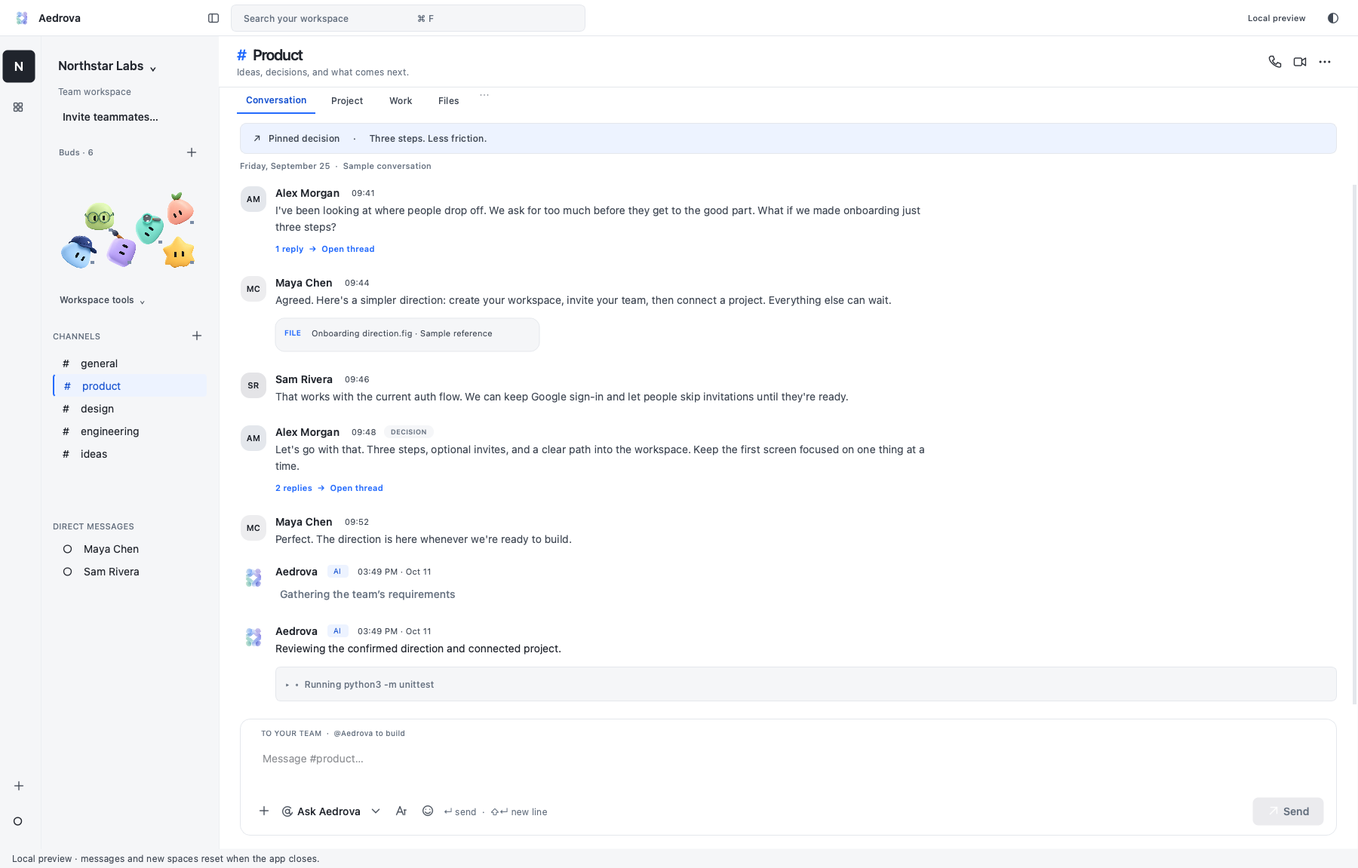
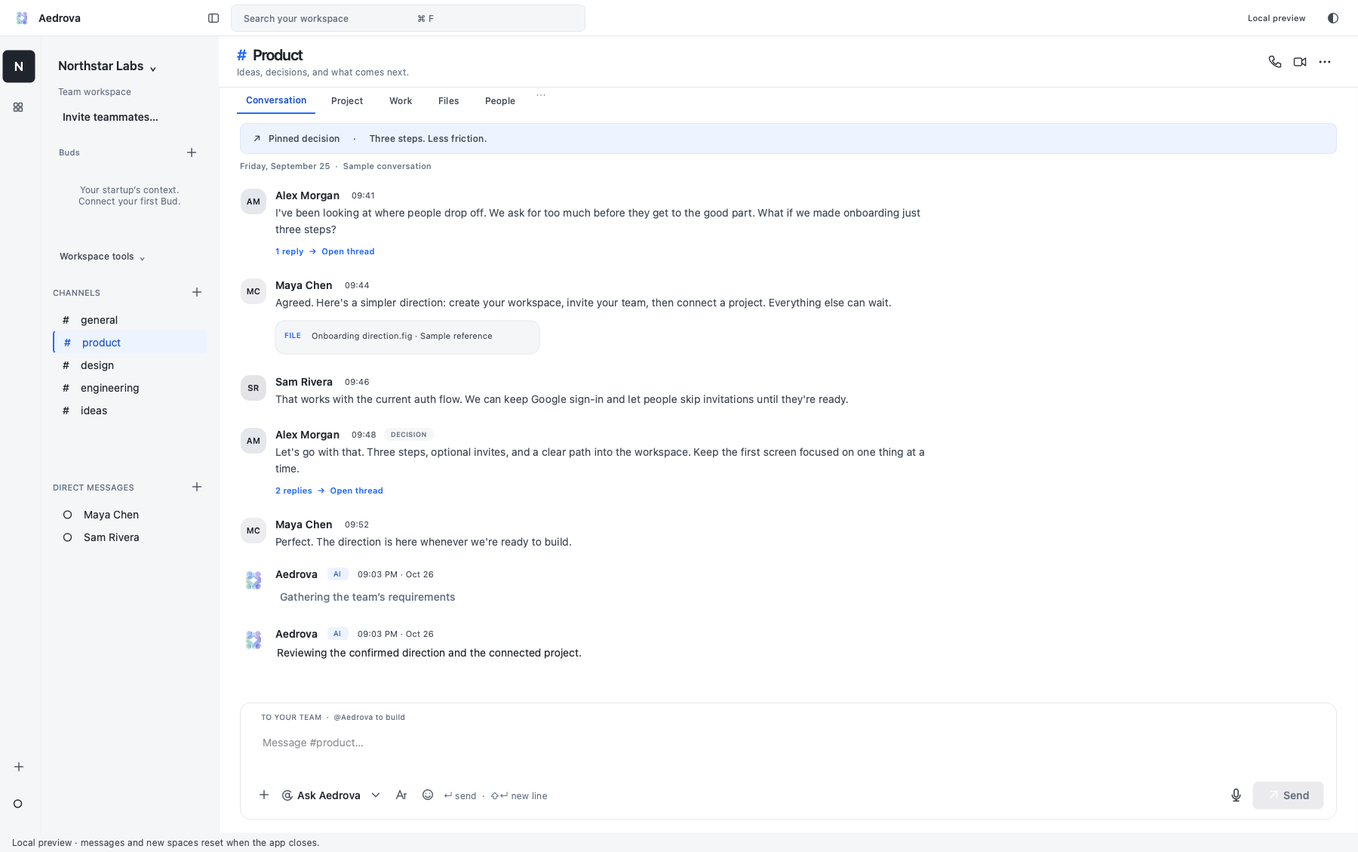
Refresh current product screenshots and introduce the Aedrova team

diff --git a/aedrova_site/templates/home.html b/aedrova_site/templates/home.html
@@ -20,7 +20,7 @@
 </section>
 
 <section class="statement reveal" id="how-it-works"><div class="section-label"><span>01 / FROM CONVERSATION TO CREATION</span><span>Aedrova, in three moments</span></div><h2>You’ve talked it through.<br><em>Now bring it to life.</em></h2><p>The idea. The decisions. The detail someone mentioned last Tuesday.<br>Your agent searches across your accessible chatspace to connect the dots before it builds.</p><div class="journey"><div><b>01</b><h3>Organize your team.</h3><p>Bring teams, channels and project discussions into a focused workspace.</p></div><div><b>02</b><h3>Give it direction.</h3><p>Agree on what’s next. Name your agent and connect your project.</p></div><div><b>03</b><h3>Make something real.</h3><p>Mention your agent. It plans, codes and tests with your saved permissions.</p></div></div></section>
-<section class="product-section reveal"><div class="product-intro"><span class="eyebrow">TEAM COMMUNICATION, CONNECTED TO DELIVERY.</span><h2>Your team’s workspace.<br><em>With the power to build.</em></h2><p>Your team already knows the story. Your agent should too.<br>Shared conversations, project briefs and agreed decisions become its starting point.</p></div><figure class="desktop-capture bud-anchor"><span class="bud-peek workspace-bud" aria-hidden="true"><span class="site-bud look-product"></span></span><img data-capture-theme="dark" src="/static/workspace-dark.png?v=20261011" alt="Actual Aedrova desktop: Workspace channels and team conversation" loading="lazy" width="1800" height="1151"><figcaption>Actual Aedrova desktop · Local demonstration workspace</figcaption></figure>
+<section class="product-section reveal"><div class="product-intro"><span class="eyebrow">TEAM COMMUNICATION, CONNECTED TO DELIVERY.</span><h2>Your team’s workspace.<br><em>With the power to build.</em></h2><p>Your team already knows the story. Your agent should too.<br>Shared conversations, project briefs and agreed decisions become its starting point.</p></div><figure class="desktop-capture bud-anchor"><span class="bud-peek workspace-bud" aria-hidden="true"><span class="site-bud look-product"></span></span><picture><img class="meeting-image-light" src="/static/workspace-light.png?v=20261026" alt="Actual Aedrova desktop: Workspace channels and team conversation" loading="lazy" width="1800" height="1129"><img class="meeting-image-dark" src="/static/workspace-dark.png?v=20261026" alt="Actual Aedrova desktop: Workspace channels and team conversation" loading="lazy" width="1800" height="1129"></picture><figcaption>Actual Aedrova desktop · Local demonstration workspace</figcaption></figure>
 <div class="integration-strip"><span>Keep the tools you love.</span><strong>Codex</strong><strong>Claude Code</strong><strong>GitHub</strong><strong>VS Code</strong><strong>Cursor</strong></div></section>
 <section class="buds-section reveal" id="ai-teammates" aria-labelledby="buds-heading">
 <div class="buds-heading"><span class="eyebrow">MEET YOUR BUDS · DESKTOP PREVIEW</span><h2 id="buds-heading">Small teammates.<br><em>Real potential.</em></h2><p>Give each Bud a name, a specialty and a little personality.<br>They live beside your team, ready when you mention them.</p></div>
@@ -28,27 +28,28 @@
 <p class="buds-availability">Buds are implemented in the desktop preview. Connector availability depends on provider setup and authorization; some integrations still require production approval. Public access remains waitlist-only.</p>
 </section>
 <section class="features" id="features"><div class="section-label"><span>02 / THE WORKSPACE</span><span>Everything has its place</span></div>
-<article class="feature-story reveal"><div class="story-copy"><span class="eyebrow">THE TEAM’S HOME BASE</span><h2>Keep teams aligned.<br><em>Keep discussions focused.</em></h2><p>Private workspaces and channels. Focused threads. Direct messages, shared files and easy invitations. One place for the people behind the product.</p><span class="feature-note">Channels · Threads · DMs · Files · Invitations · Roles</span></div><figure class="bud-anchor story-capture"><span class="bud-peek thread-bud" aria-hidden="true"><span class="site-bud look-marketing"></span></span><img data-capture-theme="light" src="/static/thread-light.png?v=20261011" alt="Actual Aedrova desktop: Focused discussion in the thread panel" loading="lazy" width="1800" height="1151"><figcaption>Actual desktop UI · Local demonstration workspace</figcaption></figure></article>
-<article class="feature-story reverse reveal"><div class="story-copy"><span class="eyebrow">SAME TEAM. SAME CONTEXT.</span><h2>It starts with<br><em>what your team knows.</em></h2><p>The brief is more than your last message. When you ask Aedrova to build, it searches your accessible channels, threads and conversations, brings in supported text files and project briefs, and follows the decisions your team has confirmed. Less re-explaining. More building from the same understanding.</p><span class="feature-note">Chats &amp; threads · Supported text files · Project briefs · Confirmed decisions</span></div><figure class="bud-anchor story-capture"><span class="bud-peek files-bud" aria-hidden="true"><span class="site-bud look-designer"></span></span><img data-capture-theme="light" src="/static/files-light.png?v=20261011" alt="Actual Aedrova desktop: Shared sample product briefs and design references" loading="lazy" width="1800" height="1151"><figcaption>Actual desktop UI · Local demonstration workspace</figcaption></figure></article>
-<article class="feature-story reveal"><div class="story-copy"><span class="eyebrow">YOUR NEW TEAMMATE</span><h2>Meet Aedrova.<br><em>Or make it your own.</em></h2><p>A named coding agent, powered by Codex or Claude Code. It plans and executes in the background using your project permissions. Give it a task. Keep the conversation going.</p><span class="feature-note">Agent nicknames · Automatic planning · Live activity · Stop controls</span></div><figure class="story-capture"><img data-capture-theme="dark" src="/static/activity-dark.png?v=20261011" alt="Actual Aedrova desktop: In-chat coding agent activity demonstration" loading="lazy" width="1800" height="1151"><figcaption>Actual desktop UI · Demonstration activity, not a live provider run</figcaption></figure></article>
-<article class="feature-story reverse reveal"><div class="story-copy"><span class="eyebrow">REAL WORK, IN YOUR REAL PROJECT</span><h2>The conversation ends.<br><em>The code begins.</em></h2><p>Connect your local project and IDE. Your agent builds in a separate copy, runs tests and shows its work. Review the diff, apply the changes and approve delivery to GitHub.</p><span class="feature-note">Local IDE · Tests · Diffs · Approved branch &amp; draft PR · Static preview</span></div><figure class="bud-anchor story-capture"><span class="bud-peek project-bud" aria-hidden="true"><span class="site-bud look-builder"></span></span><img data-capture-theme="dark" src="/static/projects-dark.png?v=20261011" alt="Actual Aedrova desktop: Projects tab with a sample project brief" loading="lazy" width="1800" height="1151"><figcaption>Actual desktop UI · Projects tab with a sample brief</figcaption></figure></article>
+<article class="feature-story reveal"><div class="story-copy"><span class="eyebrow">THE TEAM’S HOME BASE</span><h2>Keep teams aligned.<br><em>Keep discussions focused.</em></h2><p>Private workspaces and channels. Focused threads. Direct messages, shared files and easy invitations. One place for the people behind the product.</p><span class="feature-note">Channels · Threads · DMs · Files · Invitations · Roles</span></div><figure class="bud-anchor story-capture"><span class="bud-peek thread-bud" aria-hidden="true"><span class="site-bud look-marketing"></span></span><picture><img class="meeting-image-light" src="/static/thread-light.png?v=20261026" alt="Actual Aedrova desktop: Focused discussion in the thread panel" loading="lazy" width="1800" height="1129"><img class="meeting-image-dark" src="/static/thread-dark.png?v=20261026" alt="Actual Aedrova desktop: Focused discussion in the thread panel" loading="lazy" width="1800" height="1129"></picture><figcaption>Actual desktop UI · Local demonstration workspace</figcaption></figure></article>
+<article class="feature-story reverse reveal"><div class="story-copy"><span class="eyebrow">SAME TEAM. SAME CONTEXT.</span><h2>It starts with<br><em>what your team knows.</em></h2><p>The brief is more than your last message. When you ask Aedrova to build, it searches your accessible channels, threads and conversations, brings in supported text files and project briefs, and follows the decisions your team has confirmed. Less re-explaining. More building from the same understanding.</p><span class="feature-note">Chats &amp; threads · Supported text files · Project briefs · Confirmed decisions</span></div><figure class="bud-anchor story-capture"><span class="bud-peek files-bud" aria-hidden="true"><span class="site-bud look-designer"></span></span><picture><img class="meeting-image-light" src="/static/files-light.png?v=20261026" alt="Actual Aedrova desktop: Shared sample product briefs and design references" loading="lazy" width="1800" height="1129"><img class="meeting-image-dark" src="/static/files-dark.png?v=20261026" alt="Actual Aedrova desktop: Shared sample product briefs and design references" loading="lazy" width="1800" height="1129"></picture><figcaption>Actual desktop UI · Local demonstration workspace</figcaption></figure></article>
+<article class="feature-story reveal"><div class="story-copy"><span class="eyebrow">YOUR NEW TEAMMATE</span><h2>Meet Aedrova.<br><em>Or make it your own.</em></h2><p>A named coding agent, powered by Codex or Claude Code. It plans and executes in the background using your project permissions. Give it a task. Keep the conversation going.</p><span class="feature-note">Agent nicknames · Automatic planning · Live activity · Stop controls</span></div><figure class="story-capture"><picture><img class="meeting-image-light" src="/static/activity-light.png?v=20261026" alt="Actual Aedrova desktop: In-chat coding agent activity demonstration" loading="lazy" width="1800" height="1129"><img class="meeting-image-dark" src="/static/activity-dark.png?v=20261026" alt="Actual Aedrova desktop: In-chat coding agent activity demonstration" loading="lazy" width="1800" height="1129"></picture><figcaption>Actual desktop UI · Demonstration activity, not a live provider run</figcaption></figure></article>
+<article class="feature-story reverse reveal"><div class="story-copy"><span class="eyebrow">REAL WORK, IN YOUR REAL PROJECT</span><h2>The conversation ends.<br><em>The code begins.</em></h2><p>Connect your local project and IDE. Your agent builds in a separate copy, runs tests and shows its work. Review the diff, apply the changes and approve delivery to GitHub.</p><span class="feature-note">Local IDE · Tests · Diffs · Approved branch &amp; draft PR · Static preview</span></div><figure class="bud-anchor story-capture"><span class="bud-peek project-bud" aria-hidden="true"><span class="site-bud look-builder"></span></span><picture><img class="meeting-image-light" src="/static/projects-light.png?v=20261026" alt="Actual Aedrova desktop: Projects tab with a sample project brief" loading="lazy" width="1800" height="1129"><img class="meeting-image-dark" src="/static/projects-dark.png?v=20261026" alt="Actual Aedrova desktop: Projects tab with a sample project brief" loading="lazy" width="1800" height="1129"></picture><figcaption>Actual desktop UI · Projects tab with a sample brief</figcaption></figure></article>
 <div class="principles reveal"><article><span>01 / YOUR SPACE, YOUR SAY</span><h3>Control stays with you.</h3><p>Google sign-in, workspace roles and channel access. Review before applying changes. Publishing to GitHub takes a separate approval.</p></article><article><span>02 / KEEP THE THREAD</span><h3>Pick up where you left off.</h3><p>A durable build queue, run history and usage visibility. Saved work stays available. Choose what to resume after a restart.</p></article></div>
 </section>
 <section class="meeting-section reveal" id="meetings" aria-labelledby="meeting-heading">
 <div class="meeting-copy"><span class="eyebrow">MEETINGS / PART OF YOUR WORKSPACE</span><h2 id="meeting-heading">Talk it through.<br><em>Keep the understanding.</em></h2><p>Start a meeting from a channel. Bring your team together with audio, video and screen sharing, then return to the conversation without leaving Aedrova.</p><p>A join card brings public meetings into #general or your team’s chosen channel. See who’s there through participant photos and a live count. Private meetings stay in their own channel.</p><span class="coming">Implemented in the desktop preview · Public rollout pending</span></div>
-<figure class="bud-anchor story-capture meeting-overview"><span class="bud-peek meeting-bud" aria-hidden="true"><span class="site-bud look-finance"></span></span><picture><img class="meeting-image-light" src="/static/meetings-light.png?v=20261011" alt="Actual light-theme Aedrova meeting settings with Start meeting and Check meeting devices" loading="lazy" width="1060" height="830"><img class="meeting-image-dark" src="/static/meetings-dark.png?v=20261011" alt="Actual dark-theme Aedrova meeting settings with Start meeting and Check meeting devices" loading="lazy" width="1060" height="830"></picture><figcaption>Actual Mac app · Local preview · No staged call or simulated participants</figcaption></figure>
+<figure class="bud-anchor story-capture meeting-overview"><span class="bud-peek meeting-bud" aria-hidden="true"><span class="site-bud look-finance"></span></span><picture><img class="meeting-image-light" src="/static/meetings-light.png?v=20261026" alt="Actual light-theme Aedrova meeting settings with Start meeting and Check meeting devices" loading="lazy" width="1060" height="830"><img class="meeting-image-dark" src="/static/meetings-dark.png?v=20261026" alt="Actual dark-theme Aedrova meeting settings with Start meeting and Check meeting devices" loading="lazy" width="1060" height="830"></picture><figcaption>Actual Mac app · Local preview · No staged call or simulated participants</figcaption></figure>
 </section>
 <section class="meeting-details reveal" aria-label="Meeting capabilities">
 <article><span class="eyebrow">01 / A FAMILIAR PLACE TO MEET</span><h3>The controls you expect.</h3><p>Gallery and speaker views. A participant panel. Clear microphone, camera and screen-sharing controls. Join with your devices off and choose when to enable them.</p></article>
 <article><span class="eyebrow">02 / READY BEFORE YOU JOIN</span><h3>A little confidence first.</h3><p>Check your camera, microphone input, speakers and screen preview locally. Device checks aren’t shared with the meeting or saved as recordings.</p></article>
 <article><span class="eyebrow">03 / CONTEXT, WITH CONSENT</span><h3>Words that inform the work.</h3><p>Optional audio transcription requires current consent from every participant. AI reuse is a separate choice. Review saved text, edit it and confirm decisions before it becomes part of your agent’s accessible build context.</p></article>
 </section>
-<section class="meeting-device-section reveal"><div class="meeting-copy"><span class="eyebrow">YOUR TEAM’S CONTEXT. YOUR TEAM’S CONTROL.</span><h2>The discussion<br><em>stays connected.</em></h2><p>Chat explains what changed. Meetings explain why. Reviewed, consented transcripts and confirmed decisions can sit alongside accessible conversations and supported files when your agent gathers the context for a build.</p><p>Meeting context comes from audio transcripts and reviewed text. Screen sharing lets teammates see your work; it does not give the agent automatic visual understanding of your screen.</p><small>Transcription requires an enabled meeting service and speech provider. Public meeting availability is still being validated; the website remains waitlist-only.</small></div><figure class="story-capture meeting-device-capture"><img class="meeting-image-light" src="/static/devices-light.png?v=20261011" alt="Actual light-theme Aedrova device setup with camera, microphone, speaker and screen checks; all devices off" loading="lazy" width="1050" height="1050"><img class="meeting-image-dark" src="/static/devices-dark.png?v=20261011" alt="Actual dark-theme Aedrova device setup with camera, microphone, speaker and screen checks; all devices off" loading="lazy" width="1050" height="1050"><figcaption>Actual device-check screen · Devices off</figcaption></figure></section>
-<section class="meeting-device-section reveal" id="product-memory"><div class="meeting-copy"><span class="eyebrow">PRODUCT MEMORY · DESKTOP PREVIEW</span><h2>Decisions that stay.<br><em>Context that evolves.</em></h2><p>Keep goals, requirements and constraints beside the conversations that shaped them. Review proposals, approve decisions and trace each entry back to its source.</p><p>Changed evidence is flagged. Replacements retain revision history. Your agent receives a pinned memory snapshot for its build, with private-source permissions intact.</p><small>Implemented in the local desktop preview. Hosted memory persistence and privacy checks are validated; public access remains waitlist-only. Proposals and unresolved conflicts are not approved requirements.</small></div><figure class="bud-anchor story-capture"><span class="bud-peek memory-bud" aria-hidden="true"><span class="site-bud look-product"></span></span><img class="meeting-image-light" src="/static/memory-light.png?v=20261011" alt="Actual Aedrova Product memory view in light theme, with a sample approved constraint and source citation" loading="lazy" width="1400" height="1100"><img class="meeting-image-dark" src="/static/memory-dark.png?v=20261011" alt="Actual Aedrova Product memory view in dark theme, with a sample approved constraint and review controls" loading="lazy" width="1400" height="1100"><figcaption>Actual desktop preview · Sample data · Rollout pending</figcaption></figure></section>
+<section class="meeting-device-section reveal"><div class="meeting-copy"><span class="eyebrow">YOUR TEAM’S CONTEXT. YOUR TEAM’S CONTROL.</span><h2>The discussion<br><em>stays connected.</em></h2><p>Chat explains what changed. Meetings explain why. Reviewed, consented transcripts and confirmed decisions can sit alongside accessible conversations and supported files when your agent gathers the context for a build.</p><p>Meeting context comes from audio transcripts and reviewed text. Screen sharing lets teammates see your work; it does not give the agent automatic visual understanding of your screen.</p><small>Transcription requires an enabled meeting service and speech provider. Public meeting availability is still being validated; the website remains waitlist-only.</small></div><figure class="story-capture meeting-device-capture"><img class="meeting-image-light" src="/static/devices-light.png?v=20261026" alt="Actual light-theme Aedrova device setup with camera, microphone, speaker and screen checks; all devices off" loading="lazy" width="1050" height="1050"><img class="meeting-image-dark" src="/static/devices-dark.png?v=20261026" alt="Actual dark-theme Aedrova device setup with camera, microphone, speaker and screen checks; all devices off" loading="lazy" width="1050" height="1050"><figcaption>Actual device-check screen · Devices off</figcaption></figure></section>
+<section class="meeting-device-section reveal" id="product-memory"><div class="meeting-copy"><span class="eyebrow">PRODUCT MEMORY · DESKTOP PREVIEW</span><h2>Decisions that stay.<br><em>Context that evolves.</em></h2><p>Keep goals, requirements and constraints beside the conversations that shaped them. Review proposals, approve decisions and trace each entry back to its source.</p><p>Changed evidence is flagged. Replacements retain revision history. Your agent receives a pinned memory snapshot for its build, with private-source permissions intact.</p><small>Implemented in the local desktop preview. Hosted memory persistence and privacy checks are validated; public access remains waitlist-only. Proposals and unresolved conflicts are not approved requirements.</small></div><figure class="bud-anchor story-capture"><span class="bud-peek memory-bud" aria-hidden="true"><span class="site-bud look-product"></span></span><img class="meeting-image-light" src="/static/memory-light.png?v=20261026" alt="Actual Aedrova Product memory view in light theme, with a sample approved constraint and source citation" loading="lazy" width="1000" height="1050"><img class="meeting-image-dark" src="/static/memory-dark.png?v=20261026" alt="Actual Aedrova Product memory view in dark theme, with a sample approved constraint and review controls" loading="lazy" width="1000" height="1050"><figcaption>Actual desktop preview · Sample data · Rollout pending</figcaption></figure></section>
 
-<section class="meeting-device-section reveal buds-connectors-story"><div class="meeting-copy"><span class="eyebrow">YOUR TOOLS. A LITTLE MORE CONNECTED.</span><h2>Give your Bud<br><em>a useful starting point.</em></h2><p>A connector gallery organized around your Bud’s role. Recognizable app icons, clear access descriptions and connection status make setup easier to understand.</p><p>GitHub, Supabase, Figma, Notion, Stripe, TikTok, Instagram, Search and Vercel appear in the gallery. A listed connector is not a promise of public availability: each provider has its own setup and approval requirements.</p><a class="text-link" href="/waitlist">Meet your Buds when Aedrova opens →</a></div><figure class="story-capture bud-capture"><img src="/static/buds-connectors-current.png?v=20261011" alt="Actual current Aedrova Bud setup: Builder connector gallery with GitHub, Supabase and Vercel app icons" loading="lazy" width="1200" height="1000"><figcaption>Actual current Mac app · Bud connector gallery · Preview</figcaption><span class="bud-peek capture-bud" aria-hidden="true"><span class="site-bud look-research"></span></span></figure></section>
-<section class="meeting-device-section reveal"><div class="meeting-copy"><span class="eyebrow">A CLEAR HANDOFF</span><h2>Connected.<br><em>And in your corner.</em></h2><p>Connection confirmations show your Bud, the authorized tool and what it can access. Return to your workspace and keep moving.</p><small>This current desktop capture uses demonstration data to show a read-only GitHub confirmation. It does not establish public connector availability.</small></div><figure class="story-capture"><img src="/static/buds-connection-current.png?v=20261011" alt="Current Aedrova desktop confirmation UI: Orbit Bud with a sample read-only GitHub connection" loading="lazy" width="823" height="572"><figcaption>Actual desktop confirmation UI · Demonstration data</figcaption></figure></section>
-<section class="meeting-device-section reveal" id="build-evidence"><div class="meeting-copy"><span class="eyebrow">BUILD EVIDENCE · DESKTOP PREVIEW</span><h2>From a decision.<br><em>To a reviewable change.</em></h2><p>Connect approved requirements and source citations to actual file diffs and observed check results. Keep acceptance criteria beside the evidence your team reviews.</p><p>Comment, request changes and approve an exact evidence version. A changed source or a later edit keeps old checks from standing in for current verification.</p><small>Implemented in the local desktop preview. Hosted shared-review persistence and two-account permission checks are validated. Review does not apply or publish code; delivery still uses explicit approval. Public access remains waitlist-only.</small></div><figure class="story-capture"><img class="meeting-image-light" src="/static/build-review-light.png?v=20261011" alt="Actual light-theme Aedrova build evidence screen with sample requirements and a real local check" loading="lazy" width="1440" height="1000"><img class="meeting-image-dark" src="/static/build-review-dark.png?v=20261011" alt="Actual dark-theme Aedrova shared-review screen with sample evidence" loading="lazy" width="1440" height="1000"><figcaption>Actual desktop preview · Sample data · Rollout pending</figcaption></figure></section>
+<section class="meeting-device-section reveal buds-connectors-story"><div class="meeting-copy"><span class="eyebrow">YOUR TOOLS. A LITTLE MORE CONNECTED.</span><h2>Give your Bud<br><em>a useful starting point.</em></h2><p>A connector gallery organized around your Bud’s role. Recognizable app icons, clear access descriptions and connection status make setup easier to understand.</p><p>GitHub, Supabase, Figma, Notion, Stripe, TikTok, Instagram, Search and Vercel appear in the gallery. A listed connector is not a promise of public availability: each provider has its own setup and approval requirements.</p><a class="text-link" href="/waitlist">Meet your Buds when Aedrova opens →</a></div><figure class="story-capture bud-capture"><picture><img class="meeting-image-light" src="/static/buds-connectors-current.png?v=20261026" alt="Actual current Aedrova Bud setup: Builder connector gallery with recognizable app icons" loading="lazy" width="1200" height="1000"><img class="meeting-image-dark" src="/static/buds-connectors-dark.png?v=20261026" alt="Actual current Aedrova Bud setup: Builder connector gallery with recognizable app icons" loading="lazy" width="1200" height="1000"></picture><figcaption>Actual current Mac app · Bud connector gallery · Preview</figcaption><span class="bud-peek capture-bud" aria-hidden="true"><span class="site-bud look-research"></span></span></figure></section>
+<section class="meeting-device-section reveal"><div class="meeting-copy"><span class="eyebrow">A CLEAR HANDOFF</span><h2>Connected.<br><em>And in your corner.</em></h2><p>Connection confirmations show your Bud, the authorized tool and what it can access. Return to your workspace and keep moving.</p><small>This current desktop capture uses demonstration data to show a read-only GitHub confirmation. It does not establish public connector availability.</small></div><figure class="story-capture"><picture><img class="meeting-image-light" src="/static/buds-connection-current.png?v=20261026" alt="Current Aedrova desktop confirmation UI: Orbit Bud with a sample read-only GitHub connection" loading="lazy" width="1200" height="1000"><img class="meeting-image-dark" src="/static/buds-connection-dark.png?v=20261026" alt="Current Aedrova desktop confirmation UI: Orbit Bud with a sample read-only GitHub connection" loading="lazy" width="1200" height="1000"></picture><figcaption>Actual desktop confirmation UI · Demonstration data</figcaption></figure></section>
+<section class="meeting-device-section reveal" id="build-evidence"><div class="meeting-copy"><span class="eyebrow">BUILD EVIDENCE · DESKTOP PREVIEW</span><h2>From a decision.<br><em>To a reviewable change.</em></h2><p>Connect approved requirements and source citations to actual file diffs and observed check results. Keep acceptance criteria beside the evidence your team reviews.</p><p>Comment, request changes and approve an exact evidence version. A changed source or a later edit keeps old checks from standing in for current verification.</p><small>Implemented in the local desktop preview. Hosted shared-review persistence and two-account permission checks are validated. Review does not apply or publish code; delivery still uses explicit approval. Public access remains waitlist-only.</small></div><figure class="story-capture"><img class="meeting-image-light" src="/static/build-review-light.png?v=20261026" alt="Actual light-theme Aedrova build evidence screen with sample requirements and a real local check" loading="lazy" width="1000" height="840"><img class="meeting-image-dark" src="/static/build-review-dark.png?v=20261026" alt="Actual dark-theme Aedrova shared-review screen with sample evidence" loading="lazy" width="1000" height="840"><figcaption>Actual desktop preview · Sample data · Rollout pending</figcaption></figure></section>
 <section class="more-section reveal"><span class="eyebrow">A LITTLE FURTHER AHEAD</span><h2>Room for what<br><em>comes next.</em></h2><p>Bring design intent into the same shared understanding.<br>Planned design and productivity integrations will connect more of the files,<br>designs and project knowledge your team works from.</p><div class="future-tools"><span>Figma</span><span>Notion</span><span>Google Drive</span><span>GitLab</span></div><small>On the roadmap. Availability will be announced as features ship.</small></section>
+{% include "team.html" %}
 <section class="faq reveal"><span class="eyebrow">A FEW THINGS YOU MIGHT BE WONDERING</span><h2>Let’s clear a little space.</h2><details><summary>Does my agent read every conversation?</summary><p>When you ask it to build, it searches across the workspace context you’re authorized to access, rather than relying only on your latest prompt. That includes accessible conversations, supported small text attachments and confirmed decisions. It stays quiet until invoked, and workspace and channel permissions still apply. Reviewed, consented meeting transcripts are implemented in the desktop preview and require an enabled meeting service. Buds can use authorized connector resources where provider setup is complete; public availability remains pending.</p></details><details><summary>Will it change my local project automatically?</summary><p>With your saved execution permission, the agent plans, codes and tests in a separate local copy. You review before applying changes to your original project. GitHub publication requires a separate approval.</p></details><details><summary>Are Codex and Claude Code included?</summary><p>The paid beta is being prepared with an included AI allowance through Aedrova’s managed provider access. Free includes limited AI access. Pro provides expanded capacity, and Team supports larger tasks and two simultaneous workflows. No automatic overage charges. <a href="/onboarding">Compare plans.</a> The current internal alpha uses separate provider setup; checkout stays closed until the paid experience is ready.</p></details><details><summary>Can we use it for meetings?</summary><p>The desktop preview includes channel meetings, audio and video, screen sharing, gallery and speaker views, device checks, and joinable channel announcements with participant presence. Optional transcription and AI reuse require participant consent and configured services. Public rollout and final multi-device validation are pending; join the waitlist for availability updates.</p></details><details><summary>What platform is Aedrova built for?</summary><p>Aedrova is a Mac desktop app, downloaded from this website. The public installer will be available after signing and release verification.</p></details></section>
 <section class="final-cta reveal bud-corner-section"><span class="bud-peek cta-bud" aria-hidden="true"><span class="site-bud look-marketing"></span></span><span class="eyebrow">GOOD THINGS START HERE</span><h2>Bring your team.<br><em>Move work forward.</em></h2><p>Your team’s conversations. Your shared understanding. Your next build.</p><a class="button" href="{{ "/waitlist" if waitlist_only else "/onboarding" }}">{{ "Join waitlist today" if waitlist_only else "Get started" }} <span>↗</span></a><a class="text-link" href="/onboarding">Take a look at the plans →</a></section>{% endblock %}

diff --git a/aedrova_site/templates/base.html b/aedrova_site/templates/base.html
@@ -11,7 +11,7 @@
   <meta property="og:title" content="{{ seo.title }}">
   <meta property="og:description" content="{{ seo.description }}">
   <meta property="og:url" content="{{ seo.canonical }}">
-  <meta property="og:image" content="https://aedrova.com/static/workspace-dark.png">
+  <meta property="og:image" content="https://aedrova.com/static/workspace-dark.png?v=20261026">
   <meta name="twitter:card" content="summary_large_image">
   {% if seo.graph %}<script type="application/ld+json">{{ seo.graph | tojson }}</script>{% endif %}
   <meta name="theme-color" content="#F5F6F8">
@@ -43,7 +43,7 @@
 <div class="footer-brand"><a class="wordmark" href="/"><img src="/static/brand.png" alt="" width="28" height="28"><span>Aedrova</span></a><p>Your team, plus AI.</p></div>
 <nav class="footer-columns" aria-label="Footer navigation">
 <div><h2>Product</h2><a href="/#features">The workspace</a><a href="/#ai-teammates">Meet your Buds</a><a href="/onboarding">Plans for your team</a><a href="{{ '/waitlist' if waitlist_only else '/download' }}">{{ 'Join the waitlist' if waitlist_only else 'Downloads' }}</a></div>
-<div><h2>Resources</h2><a href="/product">What is Aedrova?</a><a href="/faq">Common questions</a><a href="/about">About Aedrova</a><a href="/research/crawlability">Our crawlability study</a><a href="/support">Help & troubleshooting</a><a href="/data-controls">Data & AI controls</a><a href="/enterprise">Enterprise inquiries</a></div>
+<div><h2>Resources</h2><a href="/product">What is Aedrova?</a><a href="/faq">Common questions</a><a href="/about">About Aedrova</a><a href="/#meet-the-team">Meet the team</a><a href="/research/crawlability">Our crawlability study</a><a href="/support">Help & troubleshooting</a><a href="/data-controls">Data & AI controls</a><a href="/enterprise">Enterprise inquiries</a></div>
 <div><h2>Trust</h2><a href="/privacy">Privacy policy</a><a href="/terms">Terms of service</a><a href="/refunds">Refund policy</a><a href="/acceptable-use">Acceptable use</a><a href="/subprocessors">Service providers</a><a href="/cookies">Cookies & storage</a><button class="text-link storage-settings" type="button" data-storage-settings>Storage choices</button></div>
 <div><h2>Support</h2><a href="/support">Contact us</a><a href="/security">Security reporting</a><a href="/data-controls#requests">Privacy requests</a><a href="/security#availability">Beta availability</a></div>
 </nav>

diff --git a/aedrova_site/static/site.css b/aedrova_site/static/site.css
@@ -405,3 +405,12 @@ footer.trust-footer{display:grid;grid-template-columns:minmax(180px,1fr) 3fr;gap
 @media(max-width:650px){.early-access-offer{padding:20px 16px}.early-access-active .regular-price{font-size:26px}}
 
 .early-access-active .regular-amount{text-decoration:line-through;text-decoration-thickness:1px;text-decoration-color:currentColor}
+
+/* Owner-confirmed team. Monograms are intentional typography, not substitute portraits. */
+.team-section{max-width:1200px;margin:110px auto;padding:60px 42px;border-top:1px solid var(--edge);display:grid;grid-template-columns:.7fr 1.3fr;gap:64px;align-items:start}
+.team-intro h2{font-size:clamp(38px,4.5vw,64px);margin-bottom:24px}.team-intro p{max-width:290px;font-size:14px}.team-intro .text-link{margin-top:12px}
+.team-grid{display:grid;grid-template-columns:repeat(2,minmax(0,1fr));gap:28px 22px}.team-member{min-width:0}.team-monogram{height:172px;border:1px solid var(--edge);border-radius:18px;background:var(--surface);position:relative;overflow:hidden;display:flex;align-items:center;justify-content:center;color:var(--text)}
+.team-monogram>span:first-child{font-size:44px;letter-spacing:-.055em;font-weight:500;z-index:1}.team-orbit{position:absolute;width:160px;height:160px;right:-70px;bottom:-85px;border:1px solid var(--blue);border-radius:50%;opacity:.24}.team-orbit:before{content:"";position:absolute;inset:-26px;border:1px solid var(--blue);border-radius:50%}.team-member:nth-child(2) .team-orbit{transform:translate(-160px,-100px)}.team-member:nth-child(3) .team-orbit{transform:translate(-145px,12px)}.team-member:nth-child(4) .team-orbit{transform:translate(0,-145px)}
+.team-member-details{padding:18px 2px 0}.team-member h3{font-size:17px;line-height:1.35;margin:0 0 7px;letter-spacing:-.025em}.team-member p{font-size:12px;line-height:1.6;margin:0}.legal .team-section{padding:42px 0;margin:48px 0;grid-template-columns:1fr;gap:28px}.legal .team-intro h2{margin-top:0}.legal .team-intro p{max-width:480px}
+@media(max-width:850px){.team-section{grid-template-columns:1fr;gap:34px;margin:65px auto;padding:40px 24px}.team-intro p{max-width:440px}}
+@media(max-width:480px){.team-grid{grid-template-columns:1fr;gap:28px}.team-monogram{height:200px}.team-member h3{font-size:19px}.team-member p{font-size:13px}}

diff --git a/aedrova_site/templates/about.html b/aedrova_site/templates/about.html
@@ -2,6 +2,7 @@
 {% block main %}<article class="legal policy-document">
 <span class="eyebrow">THE PEOPLE BEHIND THE PRODUCT</span><h1>About Aedrova</h1>
 <p>Aedrova is building a workspace that connects team conversations, configurable Buds and AI-assisted software work. Our current focus is founders and small software teams.</p>
+{% include "team.html" %}
 <h2>Who writes this website?</h2><p>Product explanations, FAQs and first-party technical reports are published by the Aedrova team. Questions and corrections go to <a href="mailto:contact@aedrova.com">contact@aedrova.com</a>. We do not claim outside editorial review, certifications or independent research unless a specific source supports them.</p>
 <h2>How we maintain product information</h2><p>We distinguish available features, restricted Beta capabilities and planned work. Dated product pages record substantive reviews; we do not change dates solely to suggest freshness. Technical studies describe their sample, method and limitations. <a href="/research/crawlability">Read our first crawlability study</a>.</p>
 <h2>Business identity and availability</h2>{% include "business-identity.html" %}

diff --git a/aedrova_site/templates/team.html b/aedrova_site/templates/team.html
@@ -1,0 +1,19 @@
+<section class="team-section reveal" id="meet-the-team" aria-labelledby="team-heading">
+  <div class="team-intro">
+    <span class="eyebrow">THE PEOPLE BEHIND AEDROVA</span>
+    <h2 id="team-heading">Meet the team.</h2>
+    <p>Building a calmer place for people, ideas and tools to work together.</p>
+    <a class="text-link" href="/support">Talk to us <span aria-hidden="true">↗</span></a>
+  </div>
+  <div class="team-grid">
+    {% for member in team_members %}
+    <article class="team-member" aria-labelledby="team-member-{{ loop.index }}">
+      <div class="team-monogram" aria-hidden="true"><span>{{ member.initials }}</span><span class="team-orbit"></span></div>
+      <div class="team-member-details">
+        <h3 id="team-member-{{ loop.index }}">{{ member.name }}</h3>
+        <p>{{ member.role }}</p>
+      </div>
+    </article>
+    {% endfor %}
+  </div>
+</section>

diff --git a/tests/test_product_refresh.py b/tests/test_product_refresh.py
@@ -1,0 +1,49 @@
+"""Check genuine capture inventory and owner-confirmed public team details."""
+
+import hashlib
+import json
+import re
+import struct
+from pathlib import Path
+
+from test_public_pages import client  # noqa: F401
+
+from aedrova_site.team import TEAM_MEMBERS
+
+STATIC = Path(__file__).parents[1] / "aedrova_site/static"
+
+
+def test_team_is_server_rendered_on_home_and_about(client):  # noqa: F811
+    for path in ("/", "/about"):
+        response = client.get(path)
+        assert response.status_code == 200
+        markup = response.text
+        assert 'id="meet-the-team"' in markup
+        for person in TEAM_MEMBERS:
+            assert person["name"] in markup
+            assert person["role"].replace("&", "&amp;") in markup
+        assert markup.count('class="team-member"') == 4
+        assert "Bio coming soon" not in markup
+        assert 'href="/#meet-the-team"' in markup
+
+
+def test_capture_inventory_matches_actual_files_and_all_home_ui_images(client):  # noqa: F811
+    inventory = json.loads((STATIC / "product-captures.json").read_text())
+    assert inventory["captured_at"] == "2026-10-26"
+    captures = {item["file"]: item for item in inventory["captures"]}
+    assert len(captures) == 24
+    for name, item in captures.items():
+        data = (STATIC / name).read_bytes()
+        assert hashlib.sha256(data).hexdigest() == item["sha256"]
+        assert struct.unpack(">II", data[16:24]) == (item["width"], item["height"])
+    markup = client.get("/").text
+    images = re.findall(r'<img\b[^>]*src="/static/([\w-]+\.png)([^\"]*)"', markup)
+    ui_images = [(name, query) for name, query in images if name in captures]
+    # The two teammate-editor assets are refreshed for direct/legacy links; the
+    # eleven current homepage stories each display both appearances.
+    assert {name for name, _ in ui_images} == {
+        name for name in captures if not name.startswith("teammate-")
+    }
+    assert all(query == "?v=20261026" for _, query in ui_images)
+    for name, _ in ui_images:
+        assert client.get("/static/" + name).status_code == 200

diff --git a/aedrova_site/app.py b/aedrova_site/app.py
@@ -42,6 +42,7 @@ from aedrova_site.policy import PLAN_POLICY, PUBLIC_PLAN_PRICES
 from aedrova_site.services import Identity, Payments, random_token
 from aedrova_site.speech import DictationService, SpeechService
 from aedrova_site.store import Denied, RateLimited, Store
+from aedrova_site.team import TEAM_MEMBERS
 from aedrova_site.traffic_limits import TrafficLimits
 
 ROOT = Path(__file__).parent
@@ -357,6 +358,7 @@ def create_app(config=None):
                 "promotion": promotion.status(),
                 "early_access_enabled": config.early_access_enabled,
                 "asset_version": asset_version,
+                "team_members": TEAM_MEMBERS,
                 **context,
             },
         )

diff --git a/aedrova_site/team.py b/aedrova_site/team.py
@@ -1,0 +1,8 @@
+"""Public team details confirmed by the owner; bios and headshots pending."""
+
+TEAM_MEMBERS = (
+    {"name": "Ayansh Varma", "role": "Founder & CEO / CTO", "initials": "AV"},
+    {"name": "Minh-Khoa Nguyen", "role": "Co-Founder & CMO", "initials": "MN"},
+    {"name": "Abhinav Thirumala", "role": "Co-Founder & CGO", "initials": "AT"},
+    {"name": "Joash Thomas", "role": "Director of Communication", "initials": "JT"},
+)

diff --git a/docs/website-refresh-2026-10-26.md b/docs/website-refresh-2026-10-26.md
@@ -1,0 +1,33 @@
+# Website product captures and team — October 26, 2026
+
+Recaptured 24 current desktop UI assets with local synthetic demonstration data.
+Twenty-two variants are used across eleven homepage stories; two teammate-editor
+captures are retained for existing/direct asset links. The light meeting hub and
+device preflight recaptures are pixel-identical because those views did not change.
+All other captures changed. New dark versions of the two Bud stories now accompany
+their light counterparts. Every story switches with website appearance. Cache keys,
+Open Graph reference and intrinsic dimensions updated. Captures do not certify a
+live provider run, production connector approval or two-device meeting readiness.
+Existing captions and availability disclosures remain.
+
+Inventory and SHA-256 provenance: aedrova_site/static/product-captures.json.
+Repeatable desktop capture artifacts: sibling Aedrova/work/website-refresh-oct26;
+existing capture_memory.py, capture_build_evidence.py and capture_teammates.py scripts.
+No live account, private chat, microphone/camera activation or provider call used.
+A late-created GlassFrame meeting card inherited light colors; desktop _card now
+inherits the current theme and reduced-transparency setting at creation, tested.
+
+Meet the team appears on homepage and About, linked from the shared footer. Owner-
+confirmed names/roles are centralized in aedrova_site/team.py. Monograms are intentional
+letterforms, not fabricated headshots. Bios and headshots were not invented. Owner
+asked to supply bios at completion. No outside credentials, funding, registration
+or traction claims added.
+
+Local verification: 48 public/team/capture/discovery/trust tests passed; 14 desktop
+theme/visual tests passed. Ruff and diff checks passed. Browser reviewed light/dark
+team layout at desktop and mobile 390px, with page width equal to viewport and all
+four cards present. All capture image hashes/dimensions and routes checked.
+
+Release is isolated from the fourteen staging-only backend commits; those are not
+part of this marketing refresh. No billing, release or meeting availability gate
+is changed. Stage 1 remains open pending its existing provider/audio requirements.
